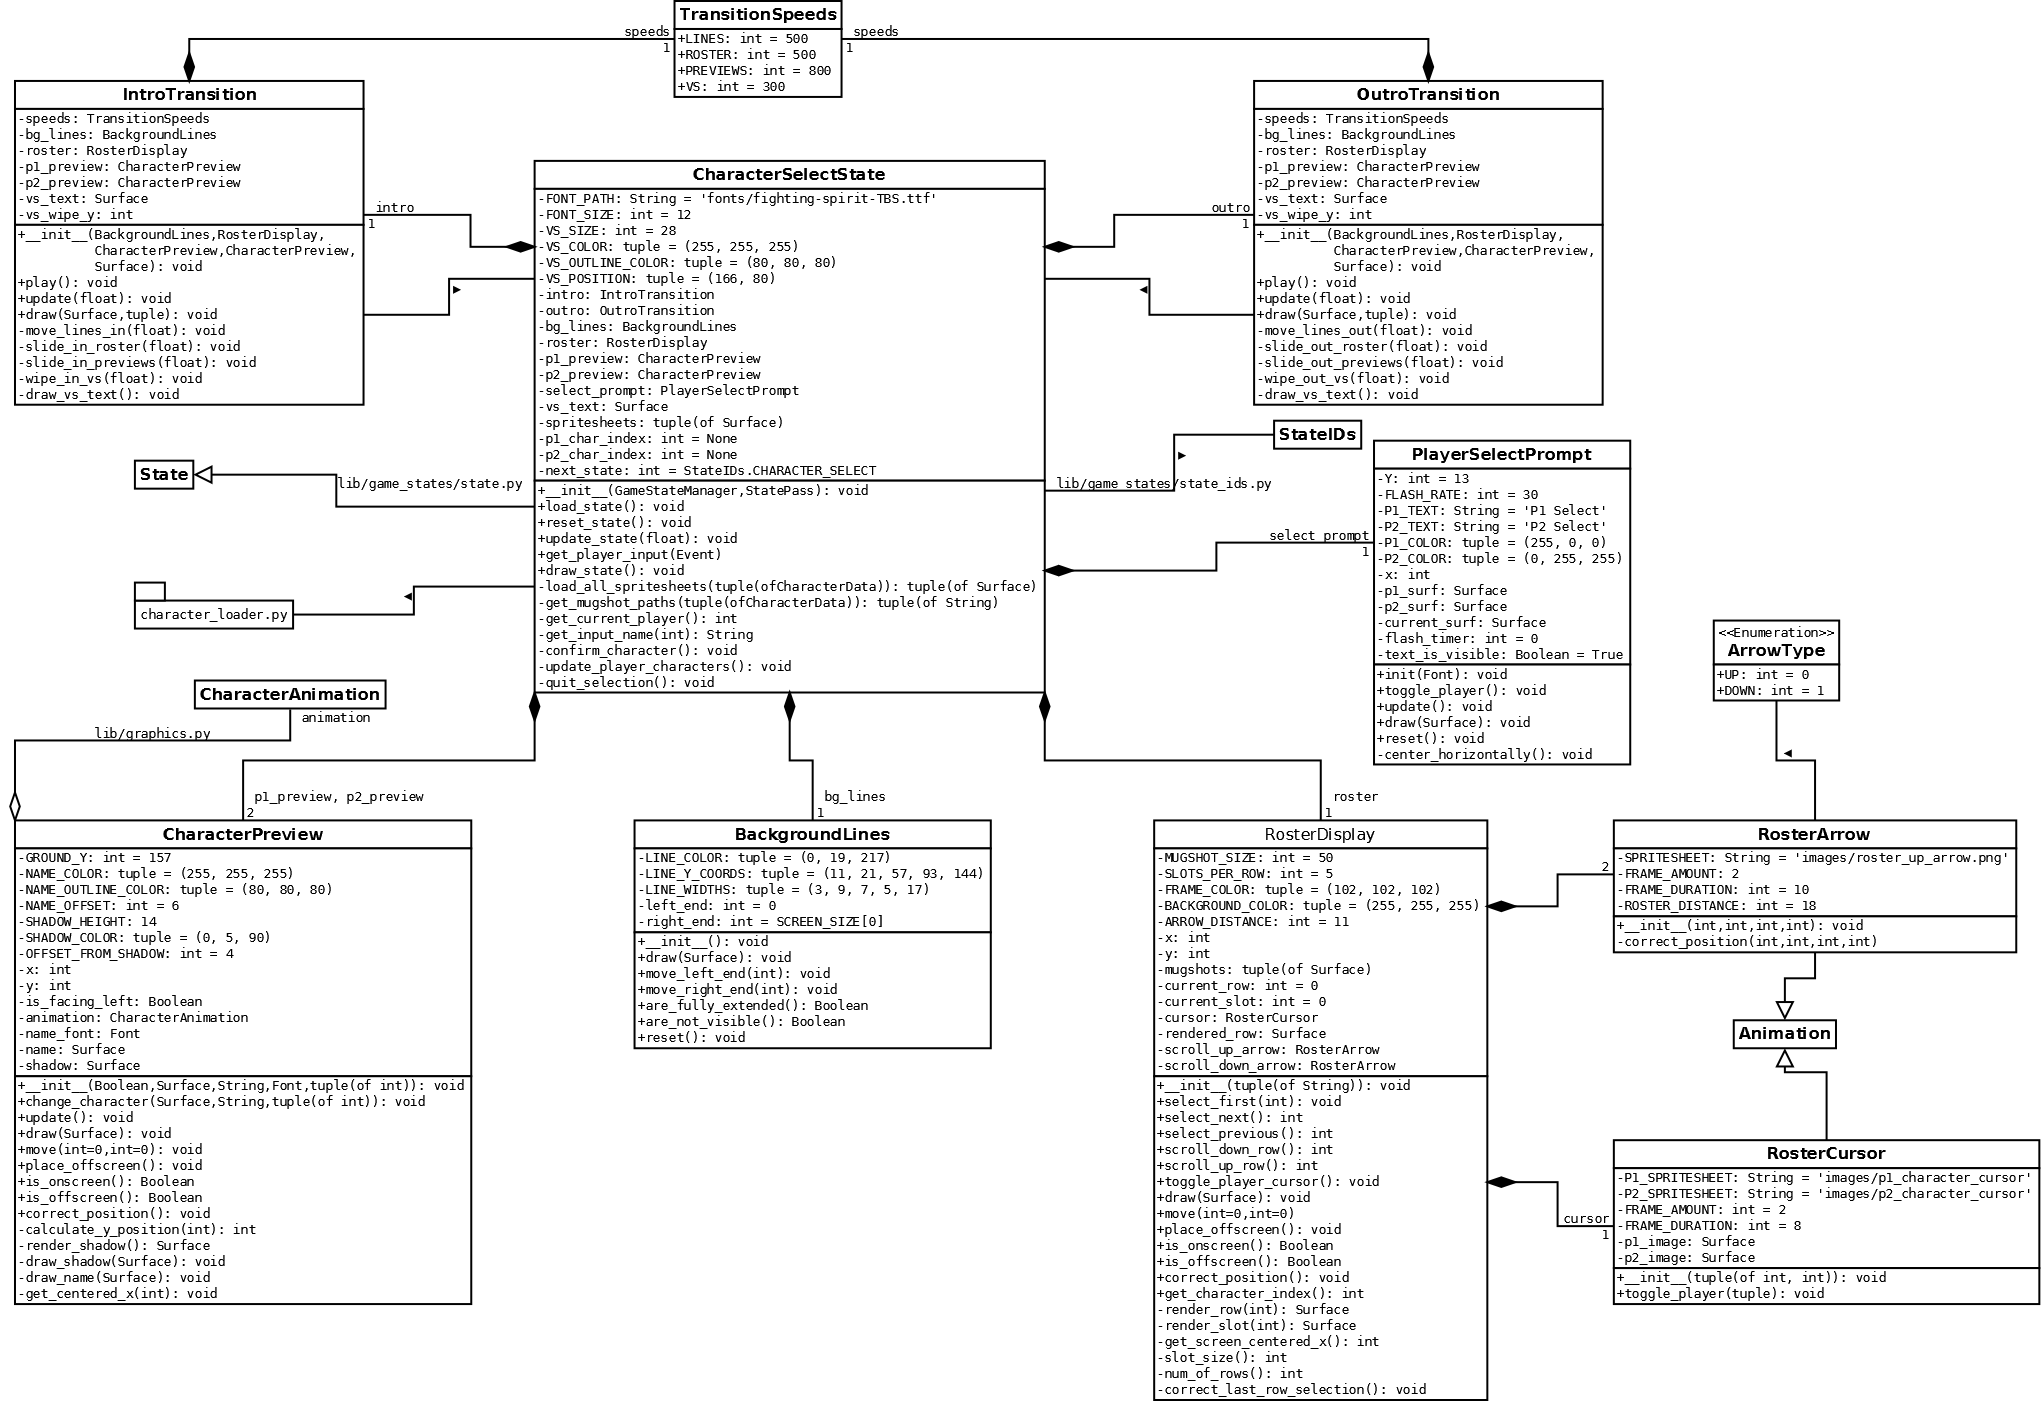
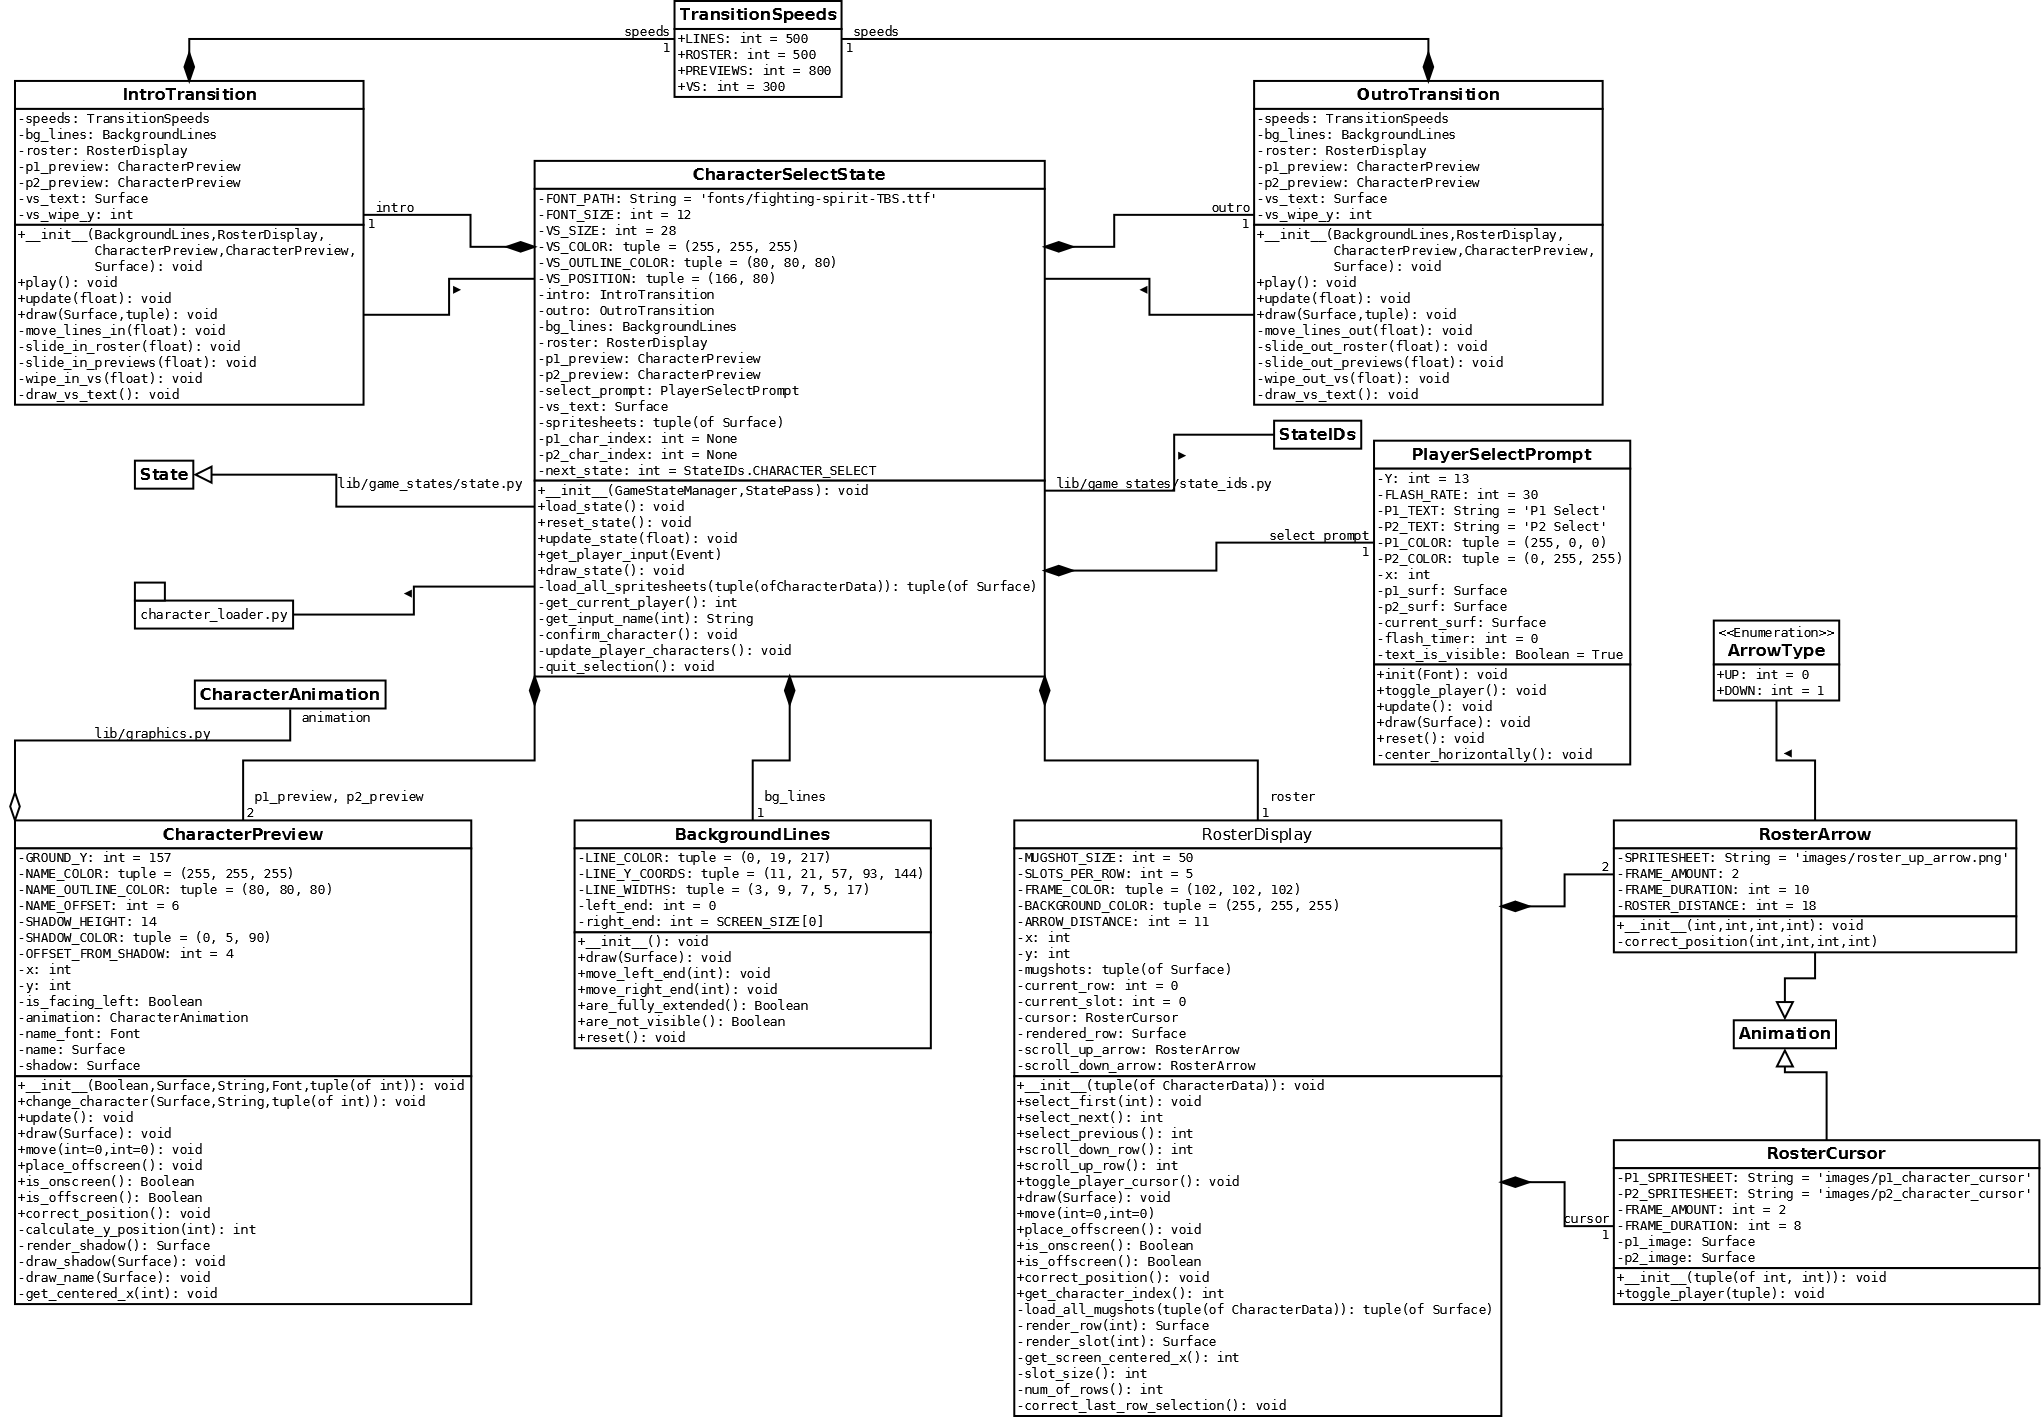
Replace get_mugshot_paths()->load_all_mugshots()
The mugshots are strictly the business of RosterDisplay, so
CharacterSelectState shouldn't be the one to retrieve the file paths.
Instead, it will pass all of the CharacterData objects to RosterDisplay
so that the latter can extract the file paths on its own.

diff --git a/lib/game_states/character_select_state.py b/lib/game_states/character_select_state.py
@@ -59,10 +59,10 @@ class CharacterSelectState(State):
     VS_POSITION = (166, 80)
 
     @staticmethod
-    def load_all_spritesheets(self, all_chars):
-        """ Return a tuple of Surfaces, containing the spritesheets for
+    def load_all_spritesheets(all_chars):
+        """Return a tuple of Surfaces, containing the spritesheets for
         the first Action defined in every character.
-        
+
         Args:
             all_chars: A tuple of CharacterData objects for all of the
                 characters included in the game.
@@ -290,14 +290,14 @@ class RosterDisplay():
     BACKGROUND_COLOR = (255, 255, 255)
     ARROW_DISTANCE = 11
 
-    def __init__(self, mugshot_paths):
+    def __init__(self, all_chars):
         """Declare and initialize instance variables.
 
         Args:
-            mugshot_paths: A tuple of Strings which refer to the file
-                paths of each character's mugshot image.
+            all_chars: A tuple of CharacterData objects for all of the
+                characters included in the game.
         """
-        self.mugshots = load_tuple_of_images(mugshot_paths)
+        self.mugshots = self.load_all_mugshots(all_chars)
         self.rendered_row = self.render_row(0)
         self.x = self.get_screen_centered_x()
         self.y = SCREEN_SIZE[1] - self.rendered_row.get_height()
@@ -310,6 +310,22 @@ class RosterDisplay():
         self.scroll_down_arrow = RosterArrow(ArrowType.DOWN, self.x, self.y,
                                              self.rendered_row.get_width(),
                                              self.rendered_row.get_height())
+
+    @staticmethod
+    def load_all_mugshots(all_chars):
+        """Return a tuple of Surfaces, containing the mugshot images for
+        every character.
+
+        Args:
+            all_chars: A tuple of CharacterData objects for all of the
+                characters included in the game.
+        """
+        mugshot_paths = []
+
+        for character in all_chars:
+            mugshot_paths.append(character.mugshot_path)
+
+        return load_tuple_of_images(mugshot_paths)
 
     def render_row(self, row_index):
         """Render a row of mugshots in order from the mugshot list.
